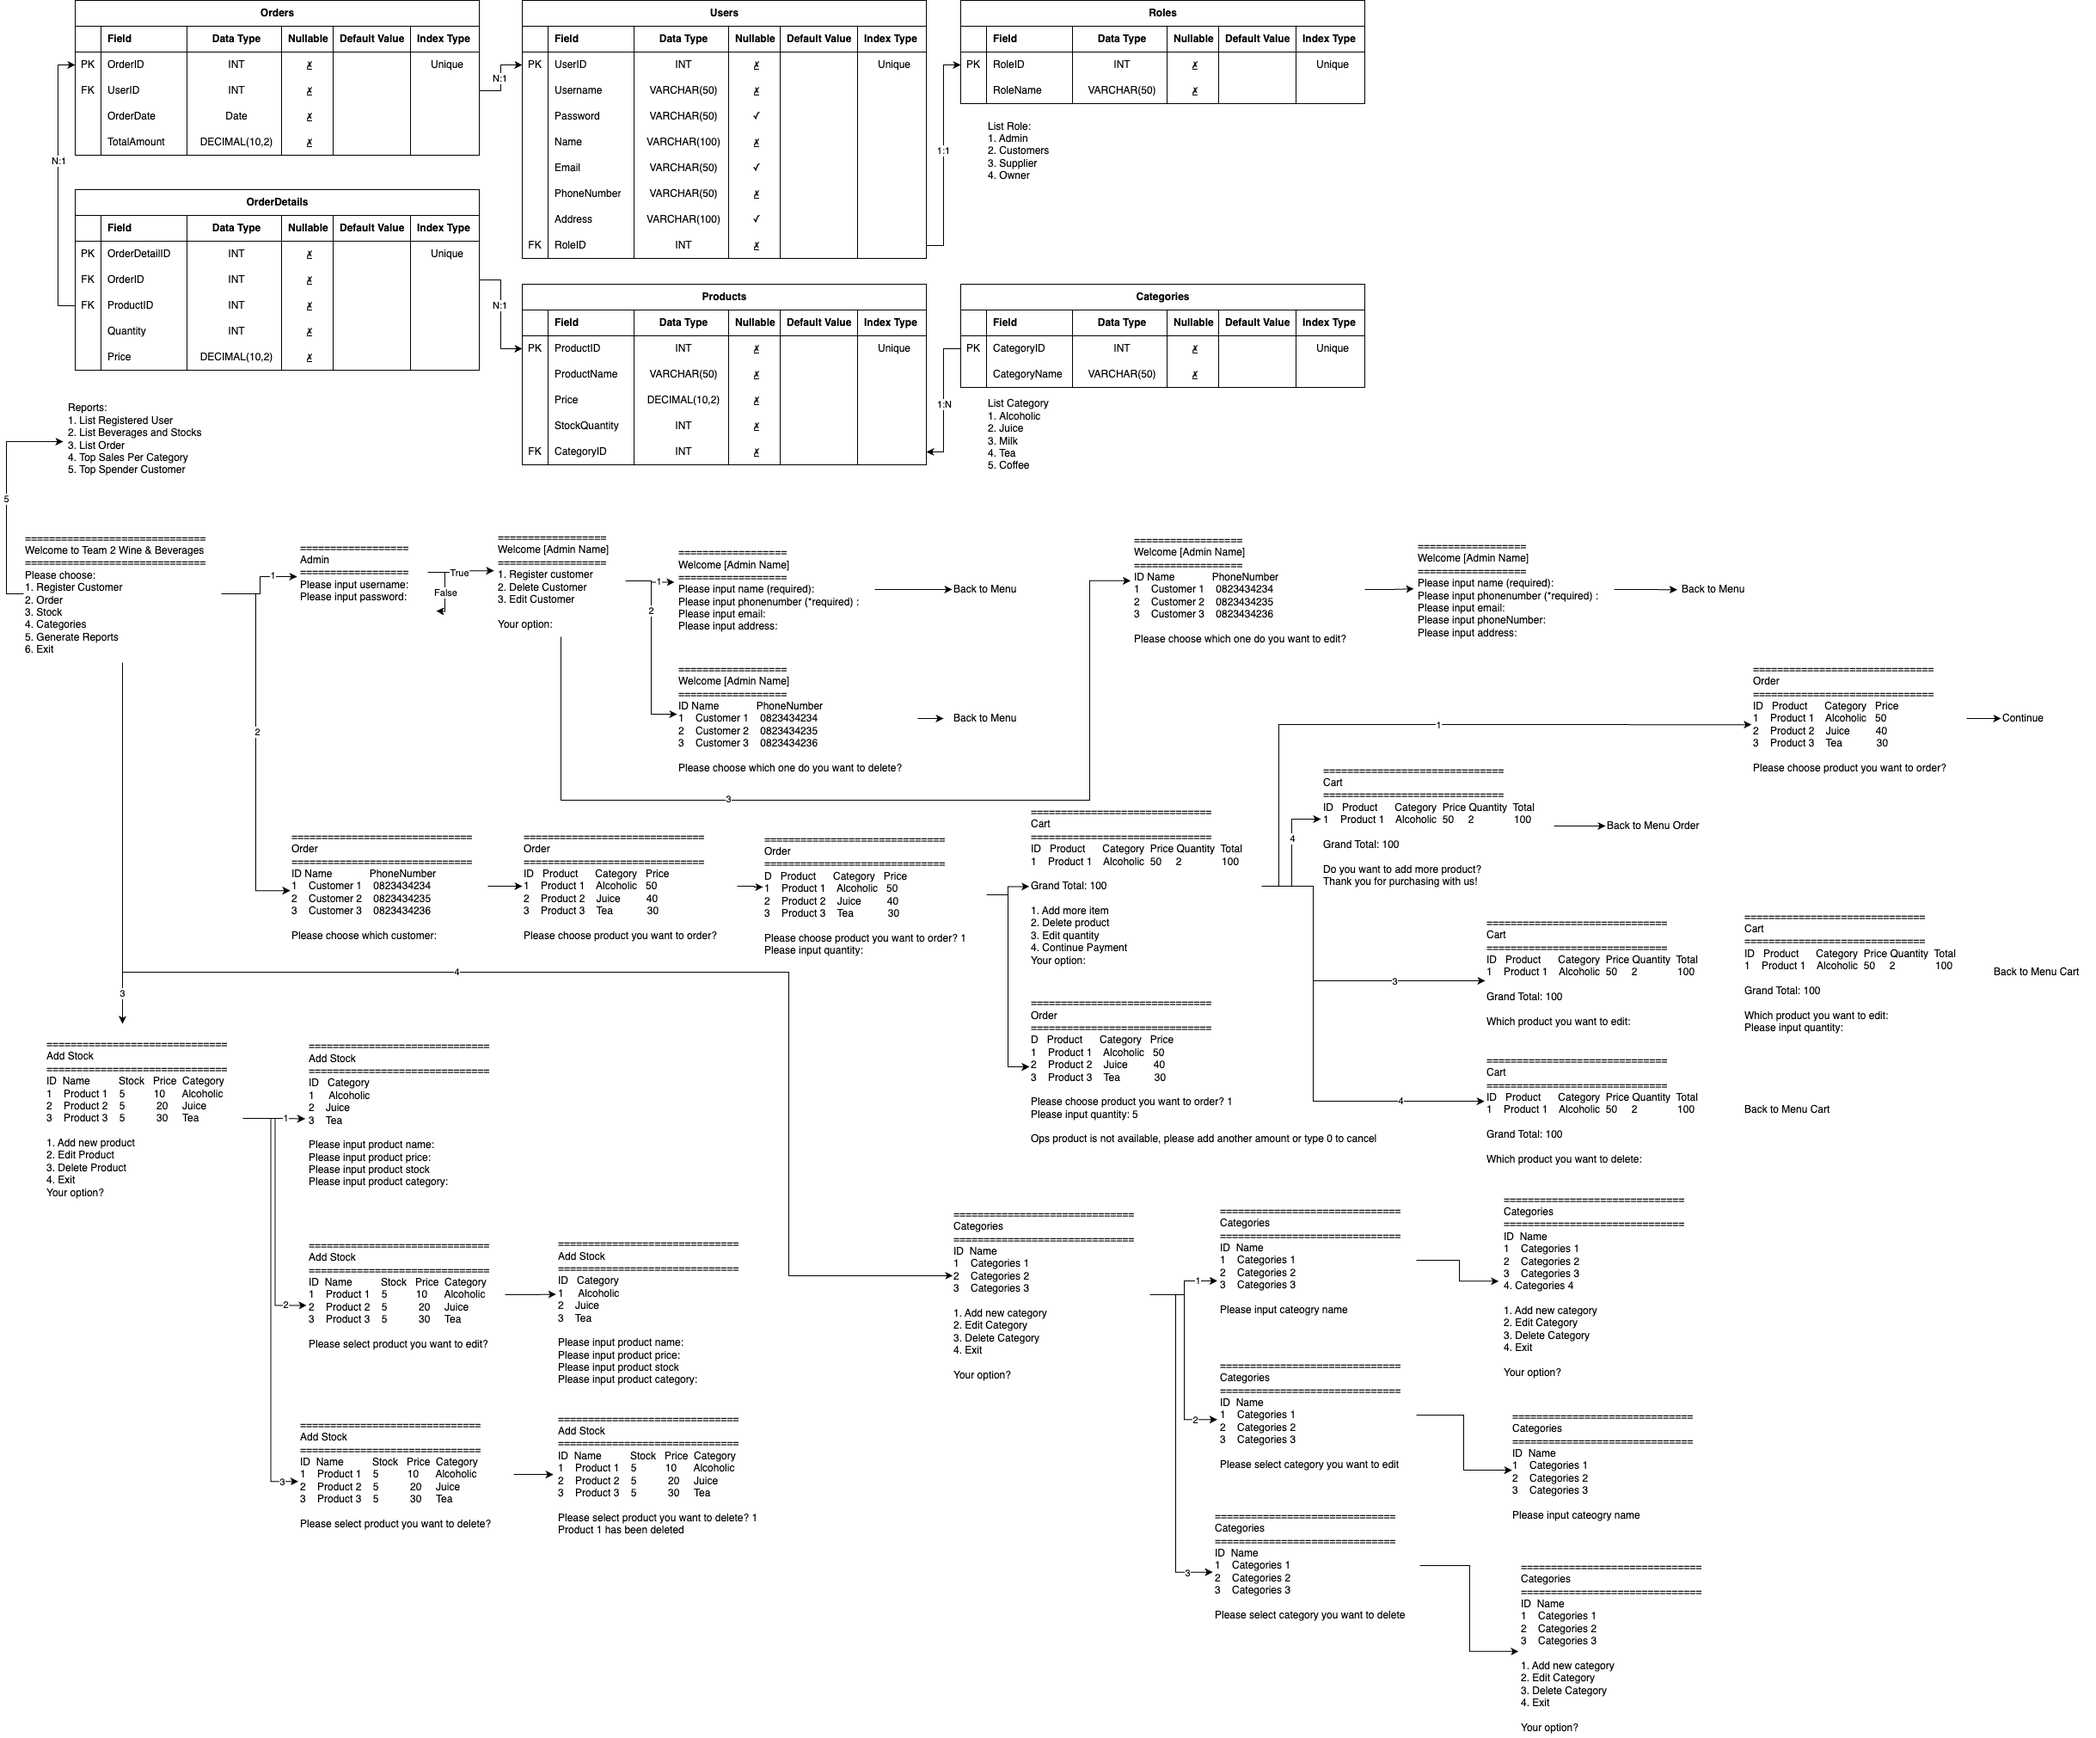
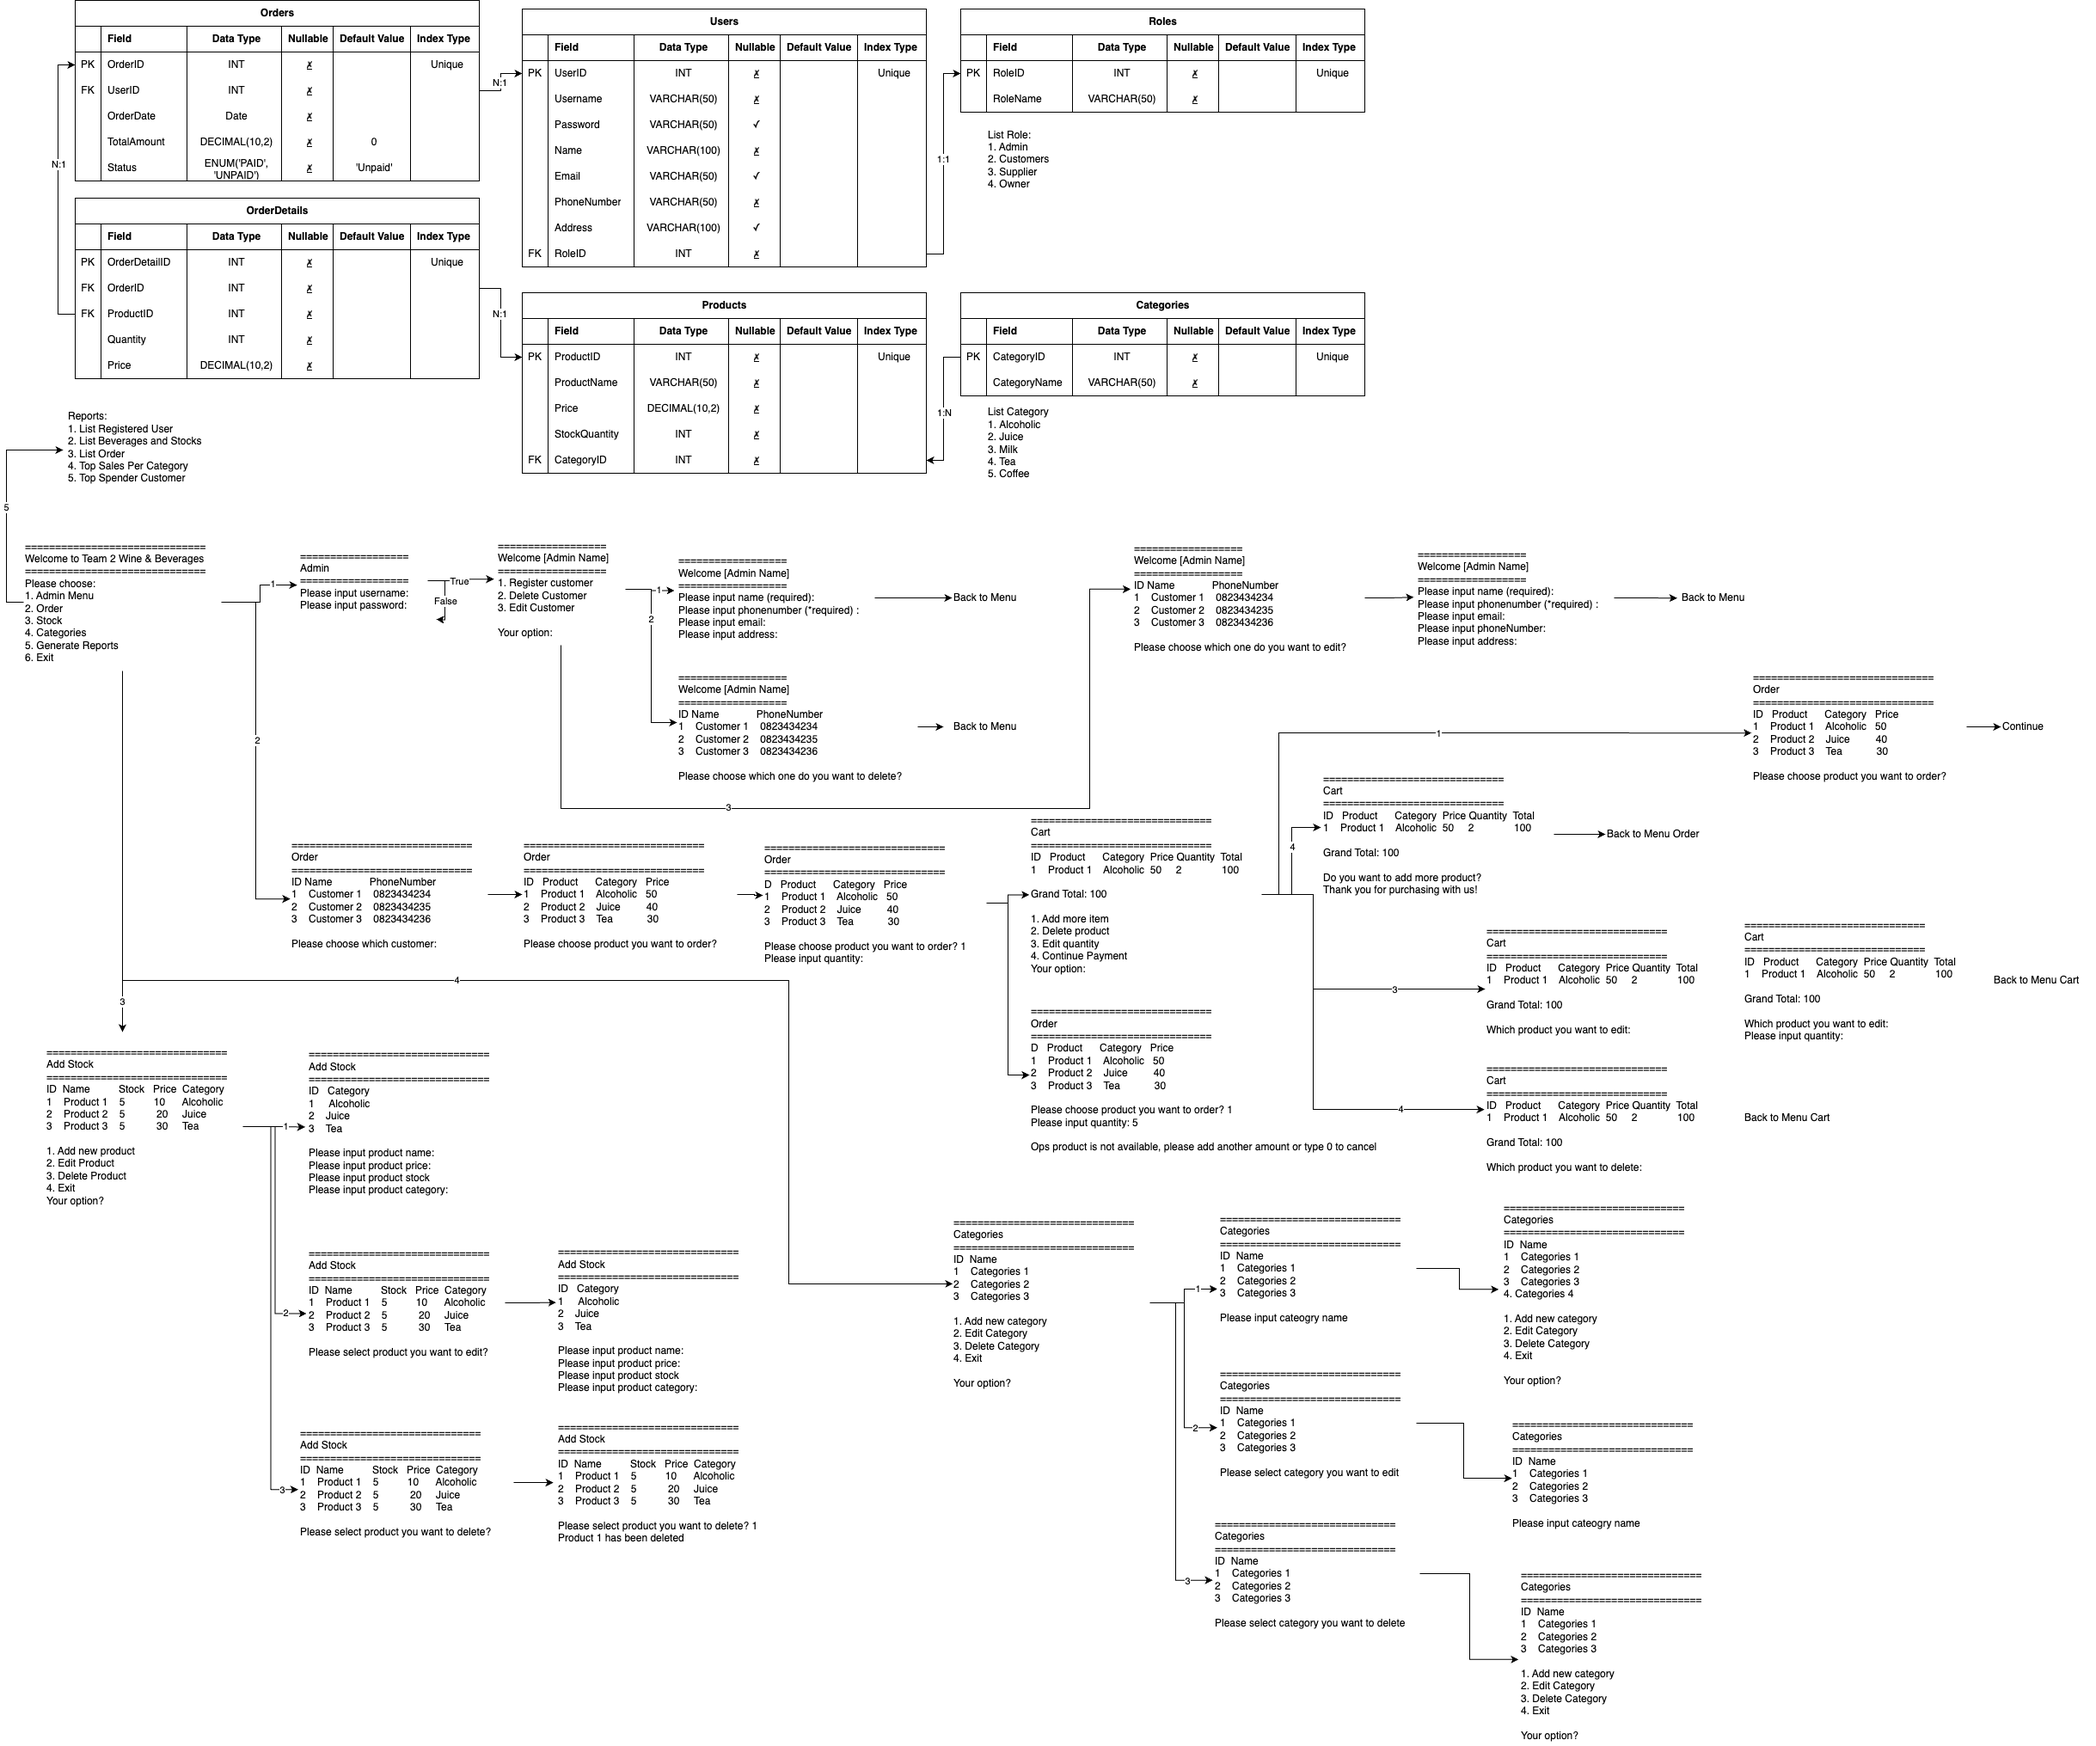
change ERD and add fetch list cart

diff --git a/handler/order.go b/handler/order.go
@@ -1,0 +1,92 @@
+package handler
+
+import (
+	"beverages-cli/config"
+	"beverages-cli/entity"
+	"context"
+	"log"
+	"time"
+)
+
+func CreateOrder(UserID string) (int, string, error) {
+	db, err := config.InitDB()
+	if err != nil {
+		log.Fatal("Failed to connect db", err.Error())
+	}
+	defer db.Close()
+
+	ctx, cancel := context.WithTimeout(context.Background(), 5*time.Second)
+	defer cancel()
+
+	// # Query with parameters
+	query := `
+		INSERT INTO Orders (UserID, OrderDate) VALUES 
+		(?, ?);
+	`
+
+	// # Get Current Date
+	currentTime := time.Now()
+	formattedTime := currentTime.Format("2006-01-02")
+
+	// # Insert Process
+	result, err := db.ExecContext(ctx, query, UserID, formattedTime)
+	if err != nil {
+		return 0, formattedTime, err
+	}
+
+	// Get Last Inserted ID
+	orderID, err := result.LastInsertId()
+	if err != nil {
+		return 0, formattedTime, err
+	}
+
+	return int(orderID), formattedTime, nil
+}
+
+func GetListCart(OrderID int) ([]entity.Cart, error) {
+	db, err := config.InitDB()
+	if err != nil {
+		log.Fatal("Failed to connect db", err.Error())
+	}
+	defer db.Close()
+
+	ctx, cancel := context.WithTimeout(context.Background(), 5*time.Second)
+	defer cancel()
+
+	// # Query with parameters
+	query := `
+		SELECT
+			p.ProductID AS ID,
+			p.ProductName AS ProductName,
+			od.Quantity AS Quantity,
+			p.Price AS Price,
+			od.Quantity * p.Price AS Total
+		FROM Orders o
+		LEFT JOIN OrderDetails od ON o.OrderID = od.OrderID 
+		LEFT JOIN Products p ON od.ProductID = p.ProductID
+		WHERE o.OrderID = ?
+	`
+
+	rows, err := db.QueryContext(ctx, query, OrderID)
+
+	if err != nil {
+		return nil, err
+	}
+	defer rows.Close()
+
+	var carts []entity.Cart
+	for rows.Next() {
+		var u entity.Cart
+
+		// # Scan the result into the struct fields
+		if err = rows.Scan(&u.ID, &u.ProductName, &u.Quantity, &u.Price, &u.Total); err != nil {
+			return nil, err
+		}
+
+		if u.ID.Valid {
+			carts = append(carts, u)
+		}
+	}
+
+	return carts, nil
+}

diff --git a/views/submenu2/cartOder.go b/views/submenu2/cartOder.go
@@ -1,0 +1,80 @@
+package submenu2
+
+import (
+	"beverages-cli/entity"
+	"beverages-cli/handler"
+	"fmt"
+	"github.com/olekukonko/tablewriter"
+	"log"
+	"os"
+	"strconv"
+)
+
+func CartOrder(OrderID int, orderDate string, customer entity.Users) {
+	for {
+		// # User interface
+		fmt.Print("\033[H\033[2J")
+		fmt.Println("=======================================")
+		fmt.Println("Welcome", customer.Name)
+		fmt.Println("Date:", orderDate)
+		fmt.Println("==============List Cart================")
+
+		// # Fetch data list cart
+		carts, err := handler.GetListCart(OrderID)
+		if err != nil {
+			log.Fatal("Failed to retrieve data from database: ", err)
+		}
+
+		// # Create a new table writer
+		table := tablewriter.NewWriter(os.Stdout)
+		table.SetHeader([]string{"ID", "PRODUCT NAME", "QUANTITY", "PRICE", "TOTAL"}) // Table headers
+
+		// # Add rows to the table
+		for _, value := range carts {
+			row := []string{
+				strconv.Itoa(int(value.ID.Int64)),
+				value.ProductName.String,
+				strconv.Itoa(int(value.Quantity.Int64)),
+				fmt.Sprintf("%f", value.Price.Float64),
+				fmt.Sprintf("%f", value.Total.Float64),
+			}
+			table.Append(row)
+		}
+
+		// # Render the response and table
+		table.Render()
+
+		// # UI Below Table
+		fmt.Println("")
+		fmt.Println("1. Add items")
+		fmt.Println("2. Delete items")
+		fmt.Println("3. Pay")
+		fmt.Println("4. Cancel")
+		fmt.Print("Answer: ")
+
+		// # Waiting user input
+		var userInput string
+		_, err = fmt.Scan(&userInput)
+		if err != nil {
+			log.Fatal("Failed to read userInput")
+		}
+
+		// # Submenu View
+		switch userInput {
+		case "1":
+
+		case "2":
+
+		case "3":
+
+		case "4":
+		default:
+			continue
+		}
+
+		// # Exit condition
+		if userInput == "3" || userInput == "4" {
+			break
+		}
+	}
+}

diff --git a/views/2.go b/views/2.go
@@ -1,7 +1,9 @@
 package views
 
 import (
+	"beverages-cli/entity"
 	"beverages-cli/handler"
+	"beverages-cli/views/submenu2"
 	"fmt"
 	"log"
 	"os"
@@ -17,7 +19,6 @@ func View2() {
 		fmt.Println("=======================================")
 		fmt.Println("Order")
 		fmt.Println("=======================================")
-		fmt.Println("")
 
 		// # Fetch data customers
 		customers, err := handler.GetAllCustomers()
@@ -54,9 +55,43 @@ func View2() {
 			log.Fatal("Failed to read customerId")
 		}
 
+		var foundIdCustomers bool = false
+		var selectedCustomers entity.Users
+		for _, value := range customers {
+			if strconv.Itoa(value.UserID) == customerId {
+				foundIdCustomers = true
+				selectedCustomers = value
+			}
+		}
+
 		// # Exit condition
 		if customerId == "0" {
 			break
+		} else {
+			// # Go to sub menu if customers found
+			if foundIdCustomers {
+				orderId, orderDate, err := handler.CreateOrder(customerId)
+				if err != nil {
+					log.Fatal("Failed to retrieve data from database: ", err)
+				}
+
+				// # Sub Menu Order Product
+				submenu2.CartOrder(orderId, orderDate, selectedCustomers)
+
+			} else {
+				// # Customers not found
+				fmt.Println("")
+				fmt.Println("Customer not found (0 to exit)")
+				var exitInput string
+				_, err = fmt.Scan(&exitInput)
+				if err != nil {
+					log.Fatal("Failed to read customerId")
+				}
+
+				if exitInput == "0" {
+					break
+				}
+			}
 		}
 	}
 }

diff --git a/entity/orders.go b/entity/orders.go
@@ -1,0 +1,22 @@
+package entity
+
+import (
+	"database/sql"
+	"time"
+)
+
+type Orders struct {
+	OrderID     int
+	UserID      string
+	OrderDate   time.Time
+	TotalAmount float32
+	Status      string
+}
+
+type Cart struct {
+	ID          sql.NullInt64
+	ProductName sql.NullString
+	Quantity    sql.NullInt64
+	Price       sql.NullFloat64
+	Total       sql.NullFloat64
+}

diff --git a/entity/orderdetails.go b/entity/orderdetails.go
@@ -1,0 +1,9 @@
+package entity
+
+type OrderDetails struct {
+	OrderDetailID int
+	OrderID       int
+	ProductID     int
+	Quantity      int
+	Price         float32
+}
